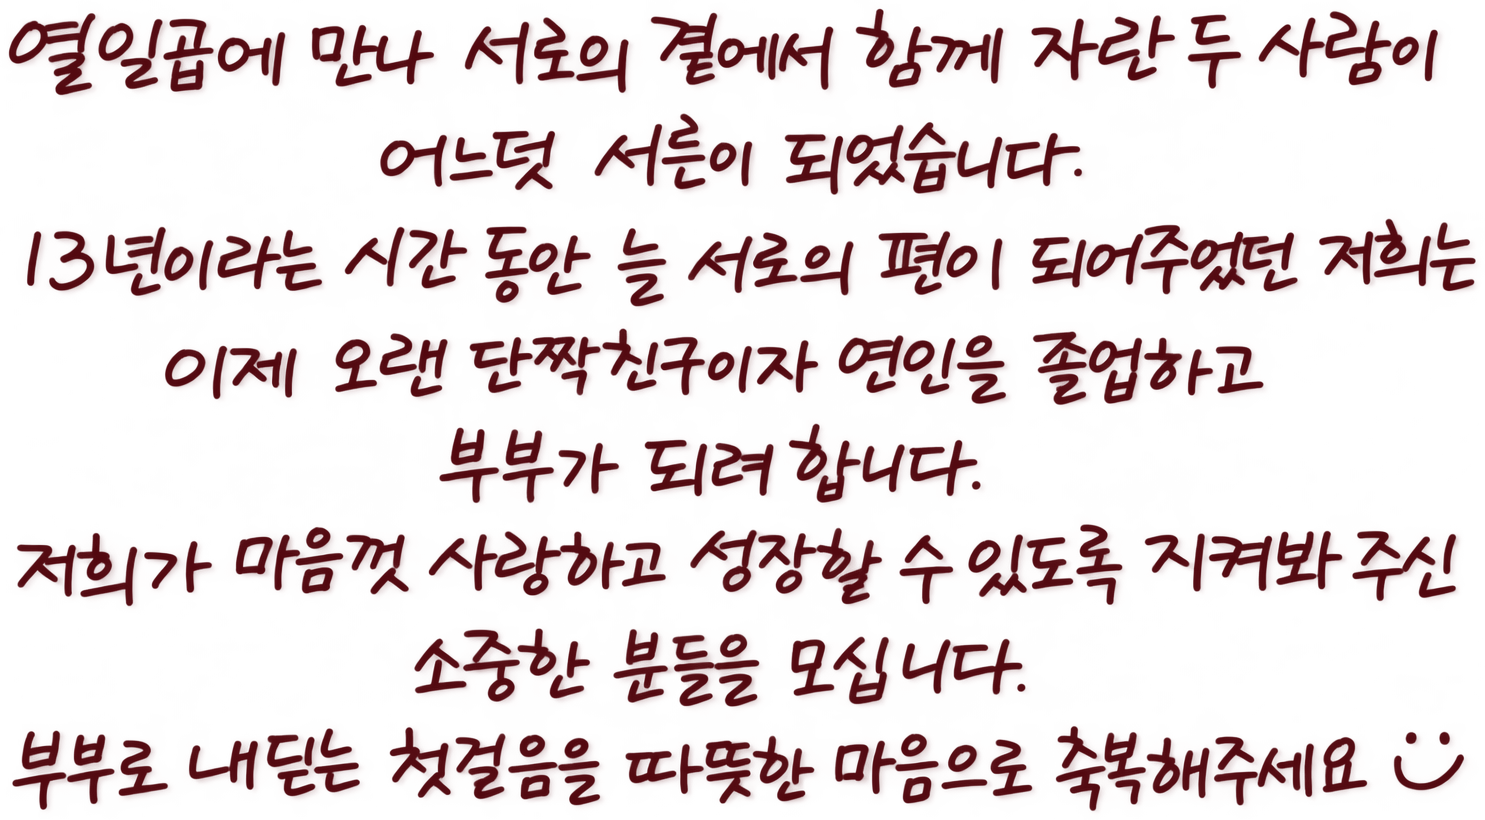
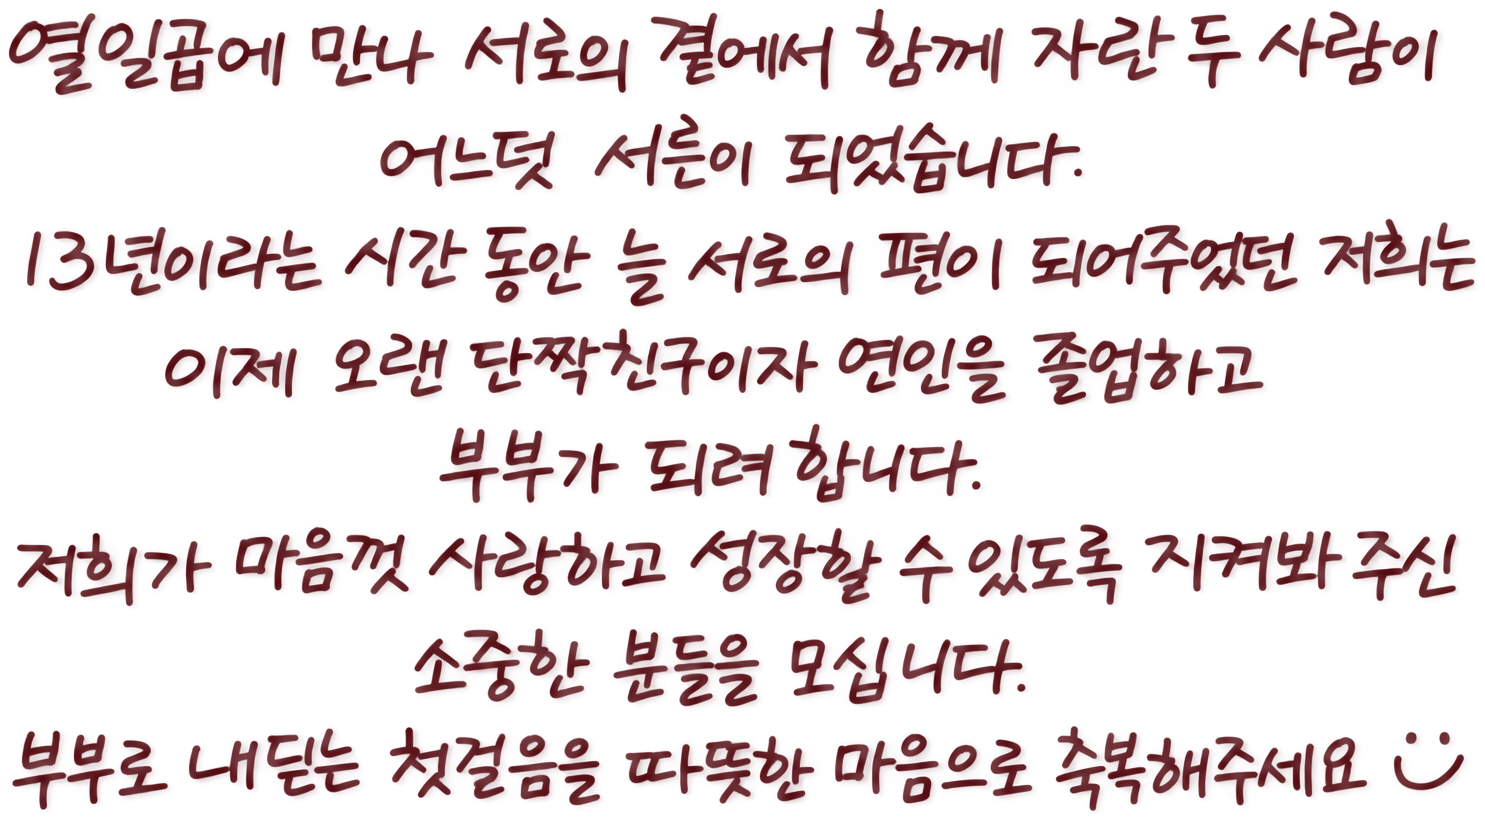
청첩장 이미지를 봉투로 바꾸고 손글씨를 연필 느낌으로
이미지
- SAVE THE DATE 의 티켓을 봉투 이미지(letter.png)로 교체.
  거의 정사각(0.96)이라 세로로 길던 티켓(0.64)과 같은 폭이면
  존재감이 줄어서 폭을 min(76%,292px) -> min(94%,360px) 로 키움
- letter.png 를 720px 로 줄임 (1.86MB -> 627KB). 표시 폭이 360px 이라
  레티나 기준 2배면 충분
- ticket.png 는 되돌릴 수 있도록 경로에 그대로 둠

손글씨
- 알파 채널에 종이 결 크기의 잡음을 먹여 연필로 그은 느낌으로 구움.
  획 안쪽이 균일하게 채워지지 않고 농도가 잉크의 89% 로 내려감
- 폭 78% -> 74%, 봉투와의 간격 30px -> 14px

신랑 · 신부 사진
- 테두리를 아기 사진일 때만 나오도록. :hover 를 빼서 마우스를 올리거나
  클릭한 뒤 커서가 남아 있을 때 테두리가 생기던 문제를 없앰.
  :focus-visible 은 유지 (키보드 이동 시에만 잡히고 마우스 클릭에는
  반응하지 않으므로 위 문제와 무관)
- 클릭 유도 리듬을 대칭에서 비대칭으로. 0->64% 는 ease-in 으로 천천히
  차오르고 64->67% 는 steps(1) 로 툭 끊긴 뒤 쉼.
  사진 · 액자 · 커서가 같은 1.6s 박자를 공유

diff --git a/styles.css b/styles.css
@@ -77,8 +77,11 @@ h2 { margin: 0; }
    내용(절대 위치 이미지)에 맞춰 폭이 0 으로 줄어듭니다. */
 .profile__card { display:block; position:relative; width:100%; aspect-ratio:1; overflow:hidden; padding:0; border:0; background:#eee7d5; cursor:pointer; }
 .profile__card::after { content:""; position:absolute; inset:0; border:1px solid transparent; transition:border-color .25s; }
-/* 아기 사진이 떠 있는 동안에는 두 장 모두 테두리가 생깁니다 — 한 장만 눌러도 둘 다 바뀌므로. */
-.profile__card:hover::after,
+/* 테두리는 아기 사진이 떠 있는 동안에만 — 두 장 모두 생깁니다(한 장만 눌러도 둘 다 바뀌므로).
+   :hover 는 뺐습니다. 마우스를 올려도 테두리가 생기고, 클릭한 뒤에도 커서가 카드 위에
+   남아 있어 누른 쪽만 계속 붉게 보였습니다.
+   :focus-visible 은 남깁니다 — 키보드로 이동할 때만 잡히고(마우스 클릭에는 반응하지 않음)
+   이게 없으면 키보드 사용자가 지금 어느 카드에 있는지 알 수 없습니다. */
 .profile__card:focus-visible::after,
 .profiles.is-baby .profile__card::after { border-color:rgba(80,5,12,.45); }
 .profile__card:focus { outline:none; }
@@ -90,23 +93,38 @@ h2 { margin: 0; }
    두 얼굴이 겹쳐 보이는 시간을 짧게 스쳐 지나가게 하기 위해서입니다.
    첫 클릭 뒤에는 .is-seen 이 붙어 이 미리보기가 아예 멈춥니다.
    아기 사진이 떠 있는 상태(.is-baby)에서는 반대쪽 사진이 비치지 않도록 끕니다. */
-.profiles:not(.is-baby):not(.is-seen) .profile__photo:not(.is-active) { animation:babyPeek 1.5s ease-in-out infinite; }
+.profiles:not(.is-baby):not(.is-seen) .profile__photo:not(.is-active) { animation:babyPeek 1.6s linear infinite; }
 /* 액자도 같은 박자로 아주 살짝 부풀었다 돌아옵니다. 사진이 떠오르는 순간과 겹쳐야 하므로
-   babyPeek 과 키프레임 구간(30/45/55/70%)을 똑같이 맞춰 둡니다. */
-.profiles:not(.is-baby):not(.is-seen) .profile__card { animation:cardPeek 1.5s ease-in-out infinite; }
-@keyframes cardPeek { 0%, 30% { transform:scale(1); } 45%, 55% { transform:scale(1.035); } 70%, 100% { transform:scale(1); } }
+   babyPeek 과 키프레임 구간(0/64/67%)과 주기(1.6s)를 똑같이 맞춰 둡니다. */
+.profiles:not(.is-baby):not(.is-seen) .profile__card { animation:cardPeek 1.6s linear infinite; }
+@keyframes cardPeek {
+  0%   { transform:scale(1); animation-timing-function:ease-in; }
+  64%  { transform:scale(1.04); animation-timing-function:steps(1,end); }
+  67%  { transform:scale(1); }
+  100% { transform:scale(1); }
+}
 /* 한 번 눌러 본 뒤에는 유도를 멈춥니다 — 이미 아는 동작을 계속 권할 이유가 없습니다.
    커서는 남기되 깜빡임만 꺼서 "누를 수 있다"는 표시는 유지합니다. */
 .profiles.is-seen .profile__cue { animation:none; }
-@keyframes babyPeek { 0%, 30% { opacity:0; } 45%, 55% { opacity:.3; } 70%, 100% { opacity:0; } }
+/* 좌우 대칭으로 부풀었다 꺼지지 않고, 0->64% 동안 천천히 차오른 뒤 한 프레임에 툭 끊깁니다.
+   구간마다 타이밍이 달라야 하므로 키프레임 안에서 animation-timing-function 을 지정합니다.
+   (ease-in = 처음엔 느리고 뒤로 갈수록 빨라짐 / steps(1,end) = 다음 구간을 순간 이동) */
+@keyframes babyPeek {
+  0%   { opacity:0; animation-timing-function:ease-in; }
+  64%  { opacity:.32; animation-timing-function:steps(1,end); }
+  67%  { opacity:0; }
+  100% { opacity:0; }
+}
 /* 누를 수 있다는 신호 — 사진 오른쪽 아래에서 깜빡이는 커서.
    갤러리 REC 점과 같은 깜빡임 어휘입니다. 어떤 사진 위에 놓여도 읽히도록
    가넷 채움 + 종이색 외곽선을 paint-order 로 글자 뒤에 깝니다.
    prefers-reduced-motion 에서는 전역 규칙이 animation 을 끄므로 멈춘 채로 보입니다. */
-.profile__cue { position:absolute; right:7px; bottom:7px; width:17px; height:17px; fill:var(--garnet); stroke:var(--paper); stroke-width:1.8; stroke-linejoin:round; paint-order:stroke fill; animation:tapCue 1.5s ease-in-out infinite; }
+.profile__cue { position:absolute; right:7px; bottom:7px; width:17px; height:17px; fill:var(--garnet); stroke:var(--paper); stroke-width:1.8; stroke-linejoin:round; paint-order:stroke fill; animation:tapCue 1.6s linear infinite; }
 @keyframes tapCue {
-  0%, 100% { opacity:1; transform:translate(0,0) scale(1); }
-  45%      { opacity:.35; transform:translate(-2px,-2px) scale(.88); }
+  0%   { opacity:1; transform:translate(0,0) scale(1); animation-timing-function:ease-in; }
+  64%  { opacity:.3; transform:translate(-2.5px,-2.5px) scale(.84); animation-timing-function:steps(1,end); }
+  67%  { opacity:1; transform:translate(0,0) scale(1); }
+  100% { opacity:1; transform:translate(0,0) scale(1); }
 }
 .profile figcaption { margin-top:12px; text-align:center; }
 .profile figcaption i { margin-right:4px; color:var(--muted); font:500 italic 12.5px/1 var(--serif-i); letter-spacing:.04em; }
@@ -154,14 +172,18 @@ h2 { margin: 0; }
 .factsheet div:first-child { border-top:1px solid var(--line); }
 .factsheet dt { color:var(--muted); font-size:10.5px; letter-spacing:.18em; }
 .factsheet dd { margin:0; color:var(--ink); font-size:14px; font-weight:500; letter-spacing:.02em; }
-/* 티켓 PNG 는 톱니 모양 테두리가 투명해서 비율 그대로 두고 그림자도 넣지 않습니다.
-   (사각형 그림자를 넣으면 톱니 밖으로 네모가 비쳐 보입니다.) */
-.ticket-card { width:min(76%, 292px); margin:0 auto 30px; }
+/* 이 PNG 는 테두리가 투명해서 비율 그대로 두고 그림자도 넣지 않습니다.
+   (사각형 그림자를 넣으면 투명한 바깥으로 네모가 비쳐 보입니다.)
+   letter.png 는 거의 정사각(0.96)이라, 세로로 길던 ticket.png(0.64)와
+   같은 폭이면 존재감이 확 줄어서 폭을 조금 키웠습니다.
+   ticket.png 로 되돌릴 때는 min(76%, 292px) 로 함께 되돌리세요. */
+.ticket-card { width:min(94%, 360px); margin:0 auto 14px; }
 .ticket-card img { display:block; width:100%; height:auto; }
-.handwritten-note { width:78%; margin:0 auto 38px; }
-/* 손글씨 PNG 는 글씨 모양이 전부 알파 채널에 들어 있고 RGB 는 단색입니다.
-   그래서 획 색을 가넷으로 칠해 구워 두었습니다 — filter 도 blend 도 필요 없습니다.
-   색을 바꾸려면 알파는 그대로 두고 RGB 만 다시 칠하면 됩니다. */
+.handwritten-note { width:74%; margin:0 auto 38px; }
+/* 손글씨 PNG 는 글씨 모양이 전부 알파 채널에 들어 있고 RGB 는 단색(가넷)입니다.
+   알파에 종이 결 크기의 잡음을 먹여 획 안쪽을 부수고 농도를 낮춰,
+   잉크가 아니라 연필로 그은 것처럼 보이게 구워 두었습니다.
+   색이나 농도를 바꾸려면 알파는 그대로 두고 다시 구우면 됩니다. */
 .handwritten-note img { display:block; width:100%; height:auto; }
 
 
@@ -482,7 +504,7 @@ fieldset input { width: auto; accent-color: var(--olive); }
   .hero__venue { font-size:clamp(8px,2.8vw,10px); }
   .hero__couple-labels { left:8%; right:8%; }
   .greeting { padding-inline:22px; }
-  .handwritten-note { width:min(86%,300px); }
+  .handwritten-note { width:min(80%,275px); }
   .share { padding-inline:22px; }
   dialog { width:calc(100% - 24px); padding-inline:20px; }
 }

diff --git a/index.html b/index.html
@@ -48,7 +48,7 @@
           <div><dt>PLACE</dt><dd data-venue></dd></div>
         </dl>
         <figure class="ticket-card">
-          <img src="./images/ticket.png" alt="VIP TICKET NO.1 — 2026. 12. 27. SUN. 14:00 PM, 라비니움(서울 송파구 천호대로 996). 김승건과 강선화의 웨딩 사진이 담긴 티켓형 청첩장" loading="lazy" />
+          <img src="./images/letter.png" alt="버건디 봉투에 웨딩 사진 카드가 꽂혀 있고, 봉투에 2026. 12. 27. 일요일 라비니움이라고 적힌 청첩장" loading="lazy" />
         </figure>
         <figure class="handwritten-note">
           <img src="./images/handwritten-invitation.png" alt="열일곱, 철없어 미래를 약속했던 두 학생은 오랜 시간 서로의 곁에서 함께 성장했습니다. 이제 어른이 되어 그때의 약속을 지키려 합니다. 부부로 내딛는 첫걸음을 함께 축복해 주세요." loading="lazy" />
